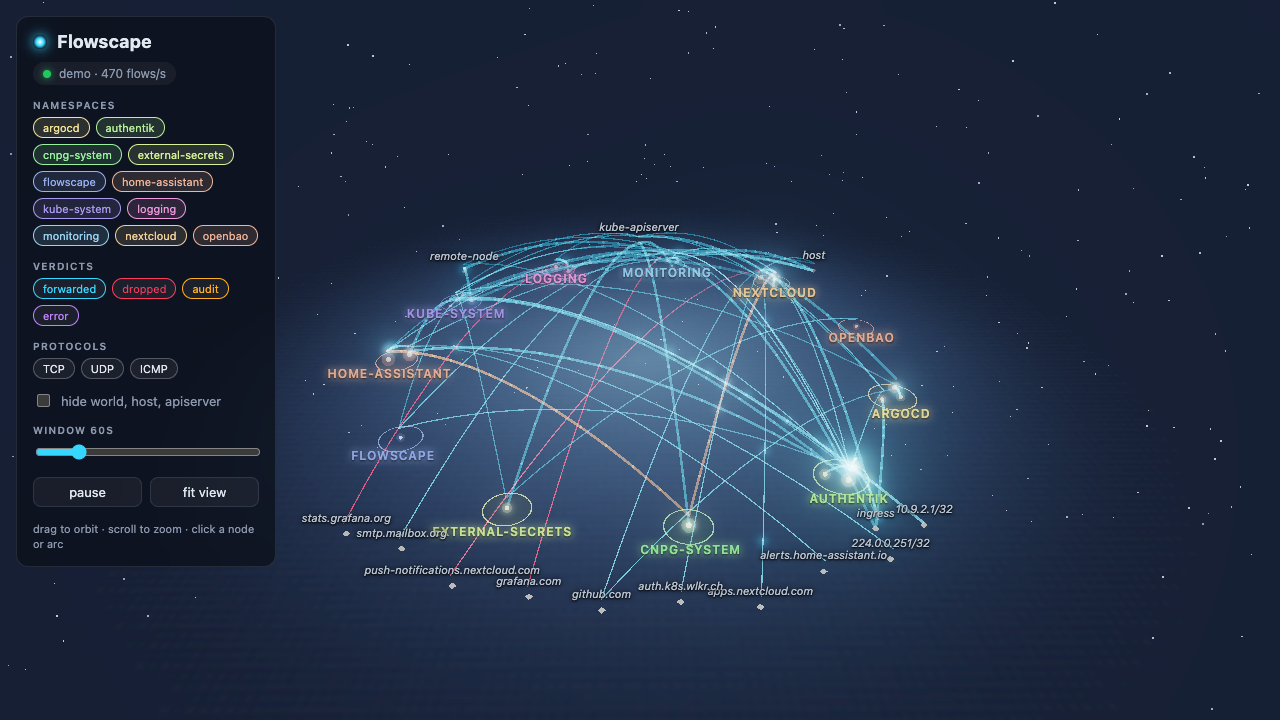
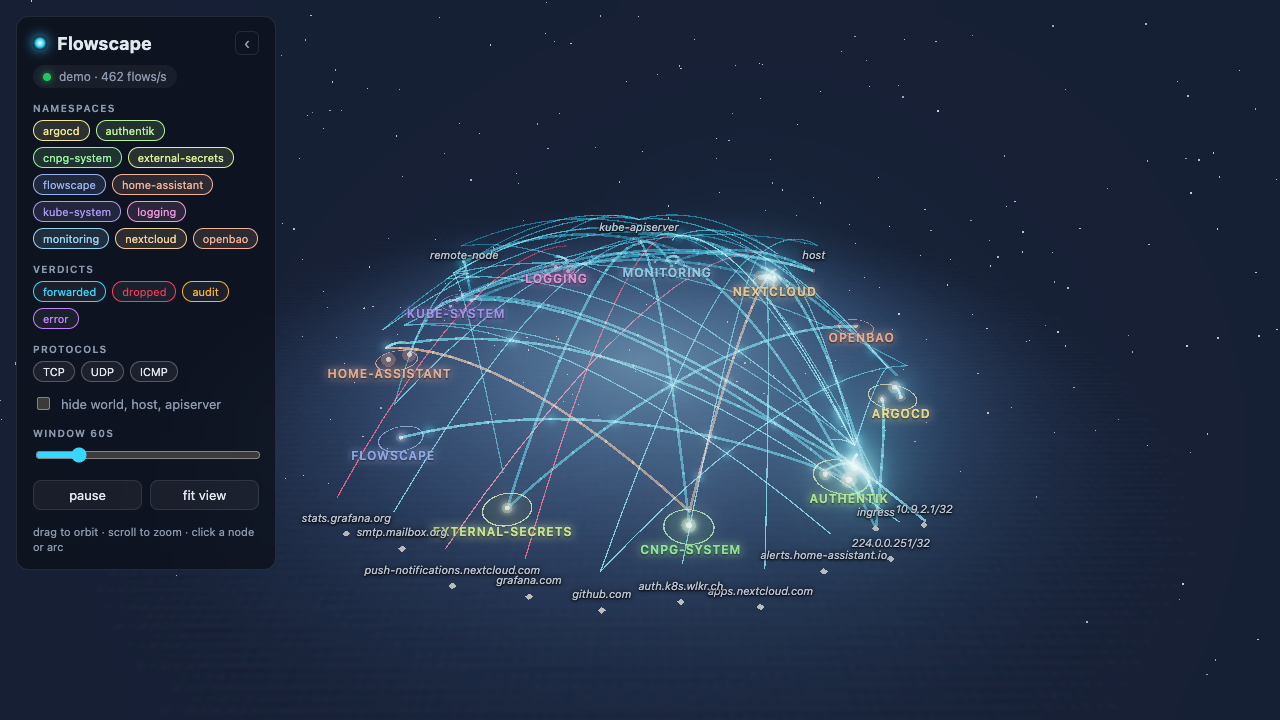
feat(ui): collapsible controls, and a CLAUDE.md that explains the rules
The controls panel covers a good part of a laptop screen and most of a
phone. A button in its header and the h key fold it down to the brand and
the status pill; the choice is remembered per browser and phones start
folded. The e2e test toggles it both ways.

CLAUDE.md grows from a checklist into the map of the repository and the
reasons behind the rules that are easy to break by accident: the
duplicated wire format, the embedded frontend, the fixed bounding
volumes, readiness that ignores Relay, and the headless frame budget.

diff --git a/web/src/filters.ts b/web/src/filters.ts
@@ -38,8 +38,12 @@ export class FiltersPanel {
       paused: false,
     };
     root.innerHTML = `
-      <div class="brand"><span class="logo"></span><h1>Flowscape</h1></div>
+      <div class="brand">
+        <span class="logo"></span><h1>Flowscape</h1>
+        <button class="collapse" id="collapse" title="collapse (h)" aria-label="collapse controls">‹</button>
+      </div>
       <div class="pill" id="pill"><span class="dot"></span><span class="text">connecting</span></div>
+      <div class="body">
       <section><h2>Namespaces</h2><div class="chips" id="ns"></div></section>
       <section><h2>Verdicts</h2><div class="chips" id="verdicts"></div></section>
       <section><h2>Protocols</h2><div class="chips" id="protocols"></div></section>
@@ -55,7 +59,18 @@ export class FiltersPanel {
         <button id="fit" title="f">fit view</button>
       </section>
       <div class="help" id="help">drag to orbit · scroll to zoom · click a node or arc</div>
+      </div>
     `;
+    const collapse = root.querySelector<HTMLButtonElement>("#collapse")!;
+    collapse.onclick = () => this.setCollapsed(!root.classList.contains("collapsed"));
+    let collapsed = window.innerWidth < 720;
+    try {
+      const saved = localStorage.getItem("flowscape.controls");
+      if (saved !== null) collapsed = saved === "collapsed";
+    } catch {
+      // storage unavailable: keep the default
+    }
+    this.setCollapsed(collapsed, false);
     this.nsBox = root.querySelector("#ns")!;
     this.pill = root.querySelector("#pill")!;
     this.pauseBtn = root.querySelector("#pause")!;
@@ -107,7 +122,23 @@ export class FiltersPanel {
         ev.preventDefault();
         this.togglePause();
       } else if (ev.key === "f") this.onFit();
+      else if (ev.key === "h") this.setCollapsed(!this.root.classList.contains("collapsed"));
     });
+  }
+
+  /** Fold the controls down to the brand and the status pill. */
+  setCollapsed(collapsed: boolean, remember = true): void {
+    this.root.classList.toggle("collapsed", collapsed);
+    const b = this.root.querySelector<HTMLButtonElement>("#collapse")!;
+    b.textContent = collapsed ? "›" : "‹";
+    b.title = collapsed ? "expand (h)" : "collapse (h)";
+    b.setAttribute("aria-label", collapsed ? "expand controls" : "collapse controls");
+    if (!remember) return;
+    try {
+      localStorage.setItem("flowscape.controls", collapsed ? "collapsed" : "open");
+    } catch {
+      // storage unavailable: nothing to remember
+    }
   }
 
   setMaxWindow(retention: number): void {

diff --git a/web/e2e/screenshot.spec.ts b/web/e2e/screenshot.spec.ts
@@ -62,6 +62,13 @@ test("renders the demo cluster and takes the README screenshot", async ({ page }
   await page.keyboard.press("Escape");
   await expect(page.locator("#panel")).toBeHidden();
 
+  await page.keyboard.press("h");
+  await expect(page.locator("#filters")).toHaveClass(/collapsed/);
+  await expect(page.locator("#filters #ns")).toBeHidden();
+  await page.locator("#collapse").click();
+  await expect(page.locator("#filters")).not.toHaveClass(/collapsed/);
+  await expect(page.locator("#filters #ns")).toBeVisible();
+
   await page.screenshot({ path: "../docs/screenshot.png" });
   expect(errors).toEqual([]);
 });

diff --git a/web/src/style.css b/web/src/style.css
@@ -422,3 +422,31 @@ button {
     max-height: 45vh;
   }
 }
+
+/* Collapsible controls */
+.brand h1 {
+  flex: 1;
+}
+.collapse {
+  background: none;
+  border: 1px solid var(--border);
+  color: var(--muted);
+  border-radius: 6px;
+  width: 24px;
+  height: 24px;
+  line-height: 1;
+  font-size: 16px;
+  cursor: pointer;
+  padding: 0;
+}
+.collapse:hover {
+  color: var(--text);
+  border-color: rgba(255, 255, 255, 0.3);
+}
+#filters.collapsed {
+  width: auto;
+  min-width: 200px;
+}
+#filters.collapsed .body {
+  display: none;
+}

diff --git a/CLAUDE.md b/CLAUDE.md
@@ -1,28 +1,93 @@
 # Flowscape
 
-Go backend streaming Hubble Relay flows into a graph, Three.js frontend
-rendering it in 3D. `README.md` explains the design; this file is what to
-keep in mind while editing.
+A Go service that streams flows from Cilium Hubble Relay and a Three.js
+frontend that renders the whole cluster as one live 3D scene. `README.md`
+is the design and user guide; this file is what to keep in mind while
+changing the code.
 
-- `internal/protocol/protocol.go` and `web/src/protocol.ts` are the same
-  wire format. Change both.
-- The frontend is embedded: `npm --prefix web run build` before `go build`,
-  or the binary serves an empty `web/dist`. `web/dist/.gitkeep` keeps the
-  `//go:embed` pattern valid in a fresh checkout.
-- The Relay leg is plaintext by design (`hubble.relay.tls.server.enabled`
-  is the chart default); the agent leg's mTLS is Relay's problem.
-- The server holds no per-client state. Rates, window, pause and filters
-  are computed in the browser from the ticks.
-- Layout is deterministic (ring, sunflower, fixed reserved angles) so a new
-  flow never moves an existing node. Do not add force simulation.
-- Local images: `container build`, never Docker. GitHub Actions uses Buildx.
-- Commits: no emojis, no Claude co-author trailer, no session links.
+## Layout
+
+| Path | What lives there |
+| --- | --- |
+| `cmd/flowscape/main.go` | Flags to wiring: source, graph, hub, HTTP server, errgroup and signals |
+| `internal/config` | Every flag with an environment fallback; `Source()` picks relay, demo or replay |
+| `internal/hubble` | The `Source`/`Sink` contract and the shared `Status` the UI pill reads |
+| `internal/hubble/relay` | The Relay client: `GetFlows` with `Follow`, blacklist filters, field mask, backoff, resume from the last flow, silent-stream watchdog |
+| `internal/hubble/fake` | The demo topology and generator, modelled on the homelab cluster |
+| `internal/hubble/replay` | `hubble observe -o jsonpb` playback, times shifted to now |
+| `internal/graph` | Flow to node and edge keys, per-edge counters and a per-second ring, snapshot and tick deltas, expiry |
+| `internal/protocol` | The wire types. `web/src/protocol.ts` is the same thing in TypeScript |
+| `internal/hub` | Ingest sink, spark sampling, 10 Hz fan-out, per-client queues and resync |
+| `internal/httpserver` | Routes, embedded SPA with cache headers and fallback |
+| `internal/metrics` | Prometheus collectors, prefix `flowscape_` |
+| `web/src` | One module per concern: `graph-state` (rings, rates, change sets), `layout` (ring, sunflower, reserved anchors), `scene` (renderer, bloom, floor, stars), `platforms`, `nodes` (InstancedMesh), `edges` (fat-line batches), `particles`, `picking`, `panel`, `filters`, `theme`, `ws-client` |
+| `web/e2e` | Playwright against `--demo`: WebGL, picking, the panel, the collapsible controls, and the README screenshot |
+| `hack/` | `dev.sh` (backend plus Vite), `capture-flows.sh` (port-forward Relay, record a fixture) |
+| `deploy/README.md` | What any deployment needs from the app; the real manifests live in `homelab-apps` |
+
+## Rules
+
+- **The wire format is duplicated on purpose.** `internal/protocol/protocol.go`
+  and `web/src/protocol.ts` change together, and `graph_test.go` plus
+  `graph-state.test.ts` cover both ends.
+- **The frontend is embedded.** `npm --prefix web run build` before
+  `go build`, or the binary serves an empty `web/dist`. `web/dist/.gitkeep`
+  keeps the `//go:embed all:dist` pattern valid in a fresh checkout; the
+  build's `postbuild` step recreates it.
+- **Relay is plaintext.** `hubble.relay.tls.server.enabled` is the chart
+  default `false`; only the agent leg is mTLS and that is Relay's problem.
+  Do not add TLS flags until the platform enables it.
+- **No API server access.** Namespace, workload, identity, ports and verdict
+  all come with the flow. Adding a Kubernetes client means RBAC, a token
+  mount and a wider blast radius; the design avoids all three.
+- **The server keeps no per-client state.** Rates, the time window, pause
+  and filters are computed in the browser from the ticks. A new UI feature
+  that needs server support probably wants a new field on `Tick` instead.
+- **Layout is deterministic.** Namespaces on a ring sorted by name,
+  workloads on a sunflower spiral, reserved identities at fixed angles. A
+  new flow never moves an existing node. Do not add force simulation.
+- **Bounding volumes are fixed.** The instanced meshes and the line batches
+  carry a huge bounding sphere because their buffers are rewritten in
+  place; computing bounds from the initial zeros makes every raycast miss.
+- **Readiness ignores Relay.** `/readyz` is 200 once the source goroutine
+  runs. Behind the Authentik outpost a failing probe turns a data outage
+  into a 502; the status pill and `flowscape_relay_connected` report it.
+- **Headless rendering is slow.** SwiftShader manages about one frame per
+  second at 1280×720 with bloom, so `document.body.dataset.ready` flips
+  after 10 frames, not 60, and the e2e waits up to two minutes.
+- **Cilium's module is pinned to the cluster's minor.** Renovate leaves
+  `github.com/cilium/cilium` minors and majors alone; bump it by hand with
+  the platform chart.
+- **Local images use Apple's `container` CLI, never Docker.** GitHub
+  Actions builds with Buildx for `linux/amd64,linux/arm64`.
+- **Commits and PRs:** no emojis, no Claude co-author or "Generated with"
+  lines, no session links. Subject `type(scope): what and why`.
+
+## Commands
+
+```bash
+make dev          # go run --demo on :8080 plus Vite with hot reload on :5173
+make test         # go vet, go test -race, vitest
+make lint         # golangci-lint, eslint
+make web          # build the frontend into web/dist
+make e2e          # Playwright; needs `npx --prefix web playwright install chromium` once
+make image        # container build --tag ghcr.io/janwelker/flowscape:<git describe>
+make run-replay FILE=flows.jsonl
+```
 
 ## Checks before pushing
 
 ```bash
 go vet ./... && golangci-lint run ./... && go test -race ./...
 npm --prefix web run lint && npm --prefix web test && npm --prefix web run build
-npm --prefix web run e2e            # needs `npx playwright install chromium` once
+npm --prefix web run e2e
 npx --package renovate@latest renovate-config-validator
 ```
+
+## Releasing
+
+Tag `vX.Y.Z` on `main`. `release.yaml` builds the multi-arch image, pushes
+`ghcr.io/janwelker/flowscape:X.Y.Z` and `X.Y`, and attests provenance;
+verify with `gh attestation verify oci://ghcr.io/janwelker/flowscape:X.Y.Z
+--owner JanWelker`. Renovate in `homelab-apps` pins the new digest into
+`flowscape/deployment.yaml` with no release-age wait.

diff --git a/README.md b/README.md
@@ -93,6 +93,7 @@ would turn a data outage into a 502.
 | Window slider | 10 s to the retention; rates and the sparkline follow |
 | `space` | Pause; ticks are buffered for a minute, longer than that reconnects for a fresh snapshot |
 | `f` | Fit the ring into the view |
+| `h`, or the ‹ button | Collapse the controls to the status pill; remembered per browser |
 | `?debug` in the URL | Frame rate and object counts |
 
 ## Development
